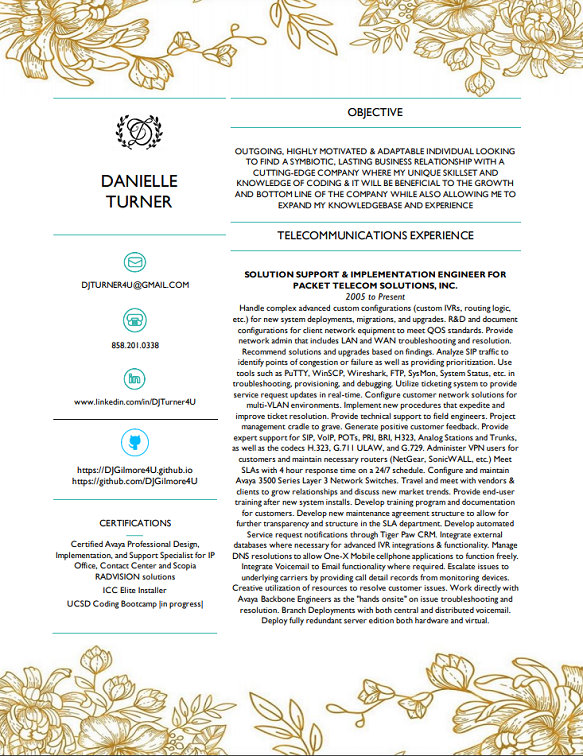
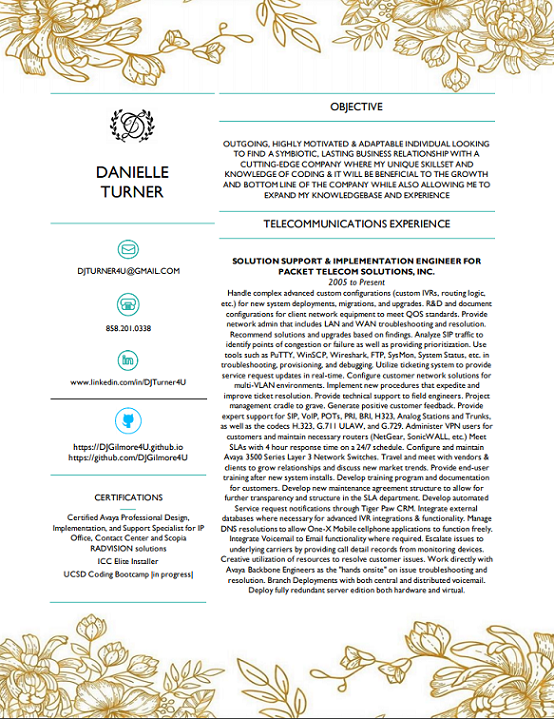
modified style

diff --git a/portfolio.html b/portfolio.html
@@ -266,10 +266,6 @@
 									</div>
 								</div>
 							</div>
-			
-
-<!--                                                                      -->
-
 						<div class="col-md-4 text-center">
 								<div class="work-inner">
 									<a href="https://DJGilmore4U.github.io/week-4-game" target="_blank" class="work-grid" style="background-image: url(images/crystals.png);">
@@ -279,8 +275,7 @@
 										<span>HTML CSS JavaScript Timer JQuery</span>
 									</div>
 								</div>
-							</div>
-						
+							</div>						
 			</div>
 			<div class="row">
 					<div class="col-md-4 text-center">
@@ -345,8 +340,7 @@
 									<span>Web Design</span>
 								</div>
 							</div>
-						</div>
-						
+						</div>						
 			</div>
 		</div>
 	</div>

diff --git a/privy/resume.html b/privy/resume.html
@@ -119,7 +119,7 @@
                     </div>
                 </div>
                 <div class="row">
-                                <img class="resume1"src="DJTpg1.PNG" alt="My Resume page 1">
-                                <img class="resume2"src="DJTpg2.PNG" alt="My Resume page 2">
+                                <img id= "resume" class="resume1"src="DJTpg1.PNG" alt="My Resume page 1">
+                                <img id= "resume" class="resume2"src="DJTpg2.PNG" alt="My Resume page 2">
                         </div>
                     </div>

diff --git a/index.html b/index.html
@@ -213,7 +213,7 @@
 			<div id="fh5co-featured-section">
 				<div class="container">
 					<div class = "row">
-						<h4 class="text-center">Top Technology Headlines</h4>
+						<h4 class="text-center"><strong>Top Technology Headlines</strong></h4>
 						<h5 class="text-center">Courtesy of the News API at newsapi.org</h5>
 					</div>
 					<div class="row">

diff --git a/css/style.css b/css/style.css
@@ -29,6 +29,13 @@ body {
   display: block;
  }
 
+ #resume {
+  border: #000;
+  border-width: 3px;
+  border-radius: 30px;
+  border-style: solid;
+ }
+
  #google_translate_element {
   margin-left: auto;
   margin-right: auto;
